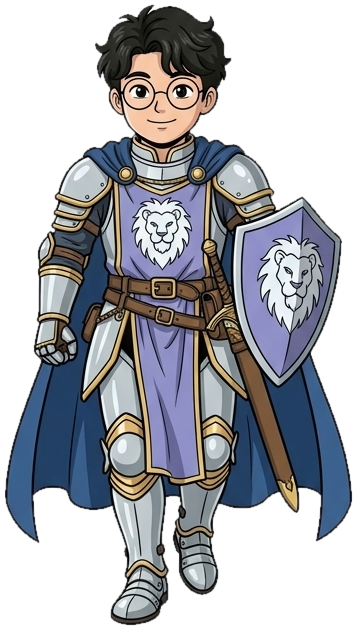
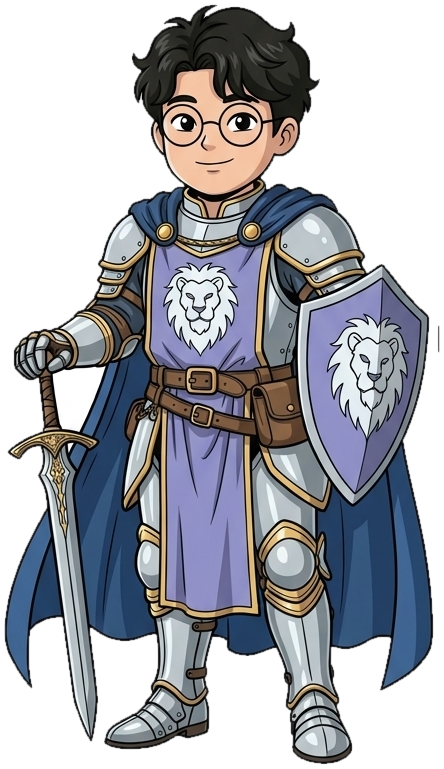
아빠 걷기 시트 옆모습 4프레임으로 다시(Gemini), 자르기 설정 갱신

diff --git a/tools/build_character_set.py b/tools/build_character_set.py
@@ -36,7 +36,7 @@ SPEC = {
     'dad': dict(title='아빠 · 기사',
                 expr=['smile', 'laugh', 'serious', 'surprised', 'cry', 'thumbsup'],
                 battle=(['guard', 'attack', 'damage', 'victory'], [2, 2]),
-                walk=(['side1', 'side2', 'side3', 'front', 'back'], [3, 2])),
+                walk=(['side1', 'side2', 'side3', 'side4', 'front', 'back'], [4, 2])),
 }
 
 
